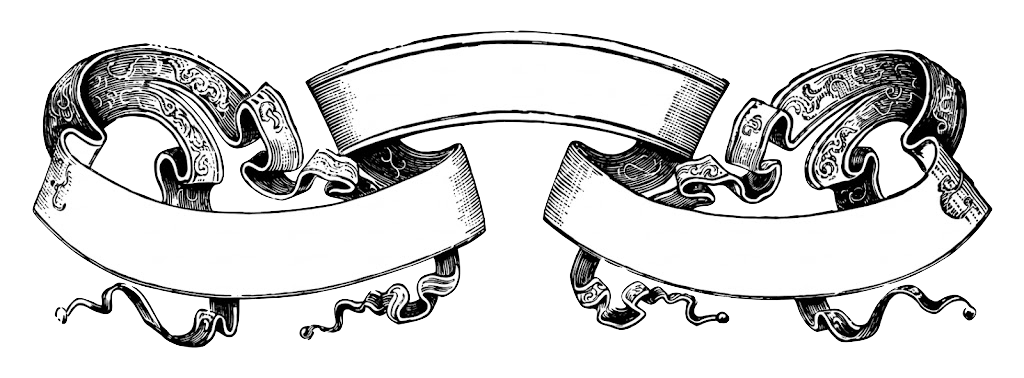
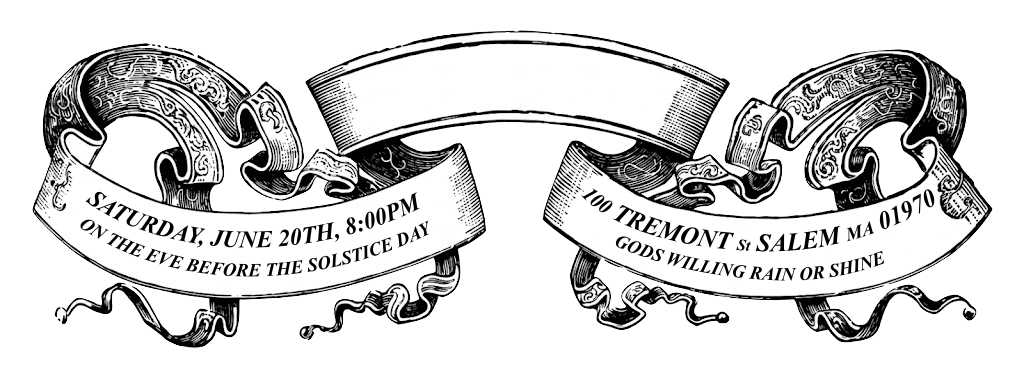
fix mobile load

Changed region(s): [[0.0625, 0.4947, 0.4375, 0.7566], [0.5625, 0.4947, 0.9375, 0.7566]]

diff --git a/2026-05-The-Dark-Council/js/interaction.js b/2026-05-The-Dark-Council/js/interaction.js
@@ -1,6 +1,12 @@
 const keyEl = document.getElementById('movable-key');
 const keyholeEl = document.getElementById('keyhole');
 
+requestAnimationFrame(() => {
+  requestAnimationFrame(() => {
+    document.body.classList.add('keyhole-anim-ready');
+  });
+});
+
 // Create several offset clones to fake a thicker edge when the key turns into the slot.
 const keyThicknessLayers = Array.from({ length: 10 }, (_, index) => {
   const layer = keyEl.cloneNode(true);

diff --git a/2026-05-The-Dark-Council/styles.css b/2026-05-The-Dark-Council/styles.css
@@ -157,6 +157,10 @@ body.home-page #keyhole {
 	z-index: 5;
 	opacity: 0.9;
 	filter: drop-shadow(2px 4px 6px rgba(0, 0, 0, 0.5));
+	transition: none;
+}
+
+body.home-page.keyhole-anim-ready #keyhole {
 	transition: top 1s cubic-bezier(0.1, 0.8, 0.22, 1), left 1s ease, transform 1.3s ease;
 }
 